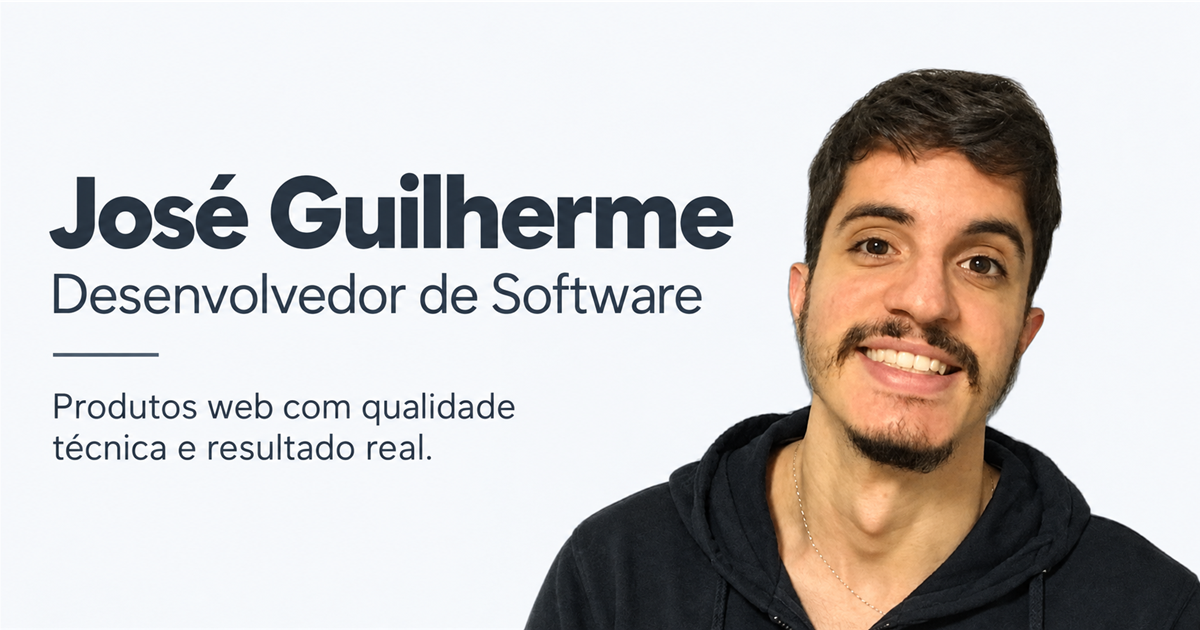
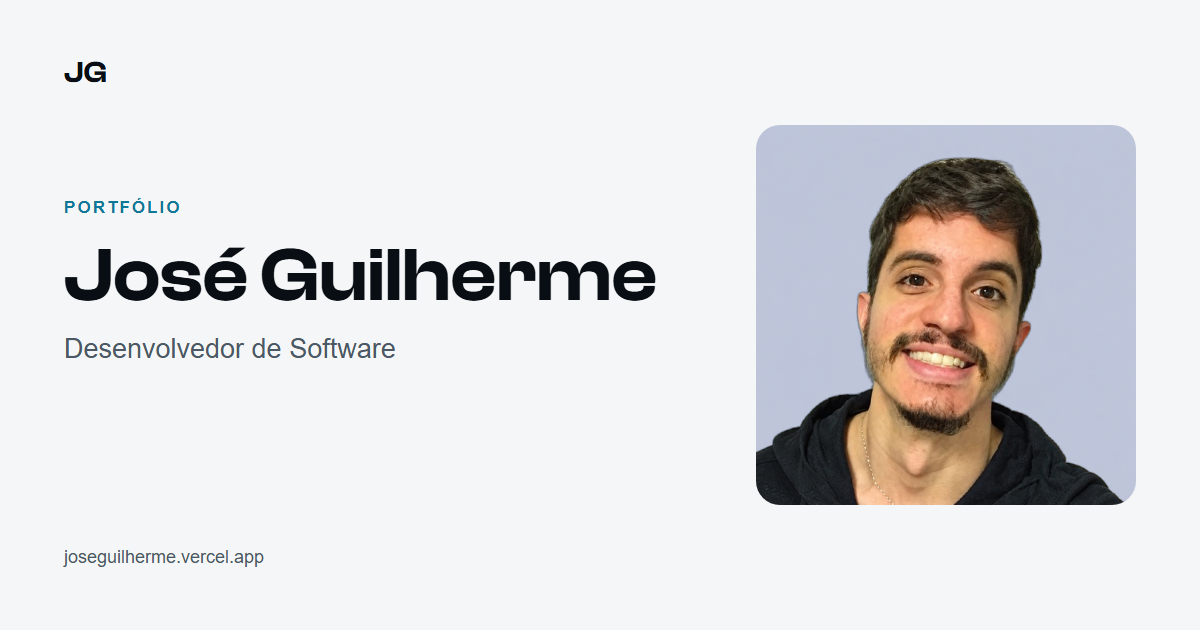
feat(seo): refresh social sharing image

diff --git a/app/layout.tsx b/app/layout.tsx
@@ -62,7 +62,7 @@ export const metadata: Metadata = {
     type: 'website',
     images: [
       {
-        url: '/images/og-image.png',
+        url: '/images/og-image.png?v=287',
         width: 1200,
         height: 630,
         alt: `${PERSONAL_INFO.name} - ${PERSONAL_INFO.role}`,
@@ -73,7 +73,12 @@ export const metadata: Metadata = {
     card: 'summary_large_image',
     title: `${PERSONAL_INFO.name} - ${PERSONAL_INFO.role}`,
     description: socialDescription,
-    images: ['/images/og-image.png'],
+    images: [
+      {
+        url: '/images/og-image.png?v=287',
+        alt: `${PERSONAL_INFO.name} - ${PERSONAL_INFO.role}`,
+      },
+    ],
   },
 }
 

diff --git a/progress.md b/progress.md
@@ -6,6 +6,8 @@
 
 ## Completed
 
+- Issue #287: refreshed the 1200×630 social image and versioned the Open Graph and Twitter metadata; production build, lint and typecheck passed.
+
 - Implemented the issue #282 visual system, responsive portfolio sections, persistent light/dark theme, contact section, mobile navigation behavior, and self-hosted Clash Display font files.
 - Synchronized `DESIGN.md`, `PRODUCT.md`, module docs, README font details, feature evidence, and test screenshot inventory.
 - Aligned the contact card to the shared 1240px section container used by Projects and About.

diff --git a/app/app.md b/app/app.md
@@ -11,7 +11,7 @@ Owns the Next.js app router entry points, root layout, metadata, and the home ro
 
 ## Key Files
 
-- `app/layout.tsx` - metadata, font setup, early theme initialization, analytics, skip link
+- `app/layout.tsx` - metadata, font setup, early theme initialization, analytics, skip link; Open Graph and Twitter share the 1200×630 portfolio image at `/images/og-image.png?v=287`.
 - The skip link uses Next.js `Link` to preserve consistent link handling.
 - `app/robots.ts` - crawler access rules and sitemap reference
 - `app/sitemap.ts` - public URL sitemap

diff --git a/session-handoff.md b/session-handoff.md
@@ -2,6 +2,8 @@
 
 ## Current State
 
+Issue #287: social preview image and metadata updated. Build, lint and TypeScript passed; whole-repository formatting reports pre-existing drift.
+
 Issue #282 redesign is implemented. Production build, lint, typecheck, responsive browser checks, screenshot capture, and documentation synchronization are complete.
 
 Issue #291 aligns the two project action buttons to the same 14px semibold text and 12px corners.
